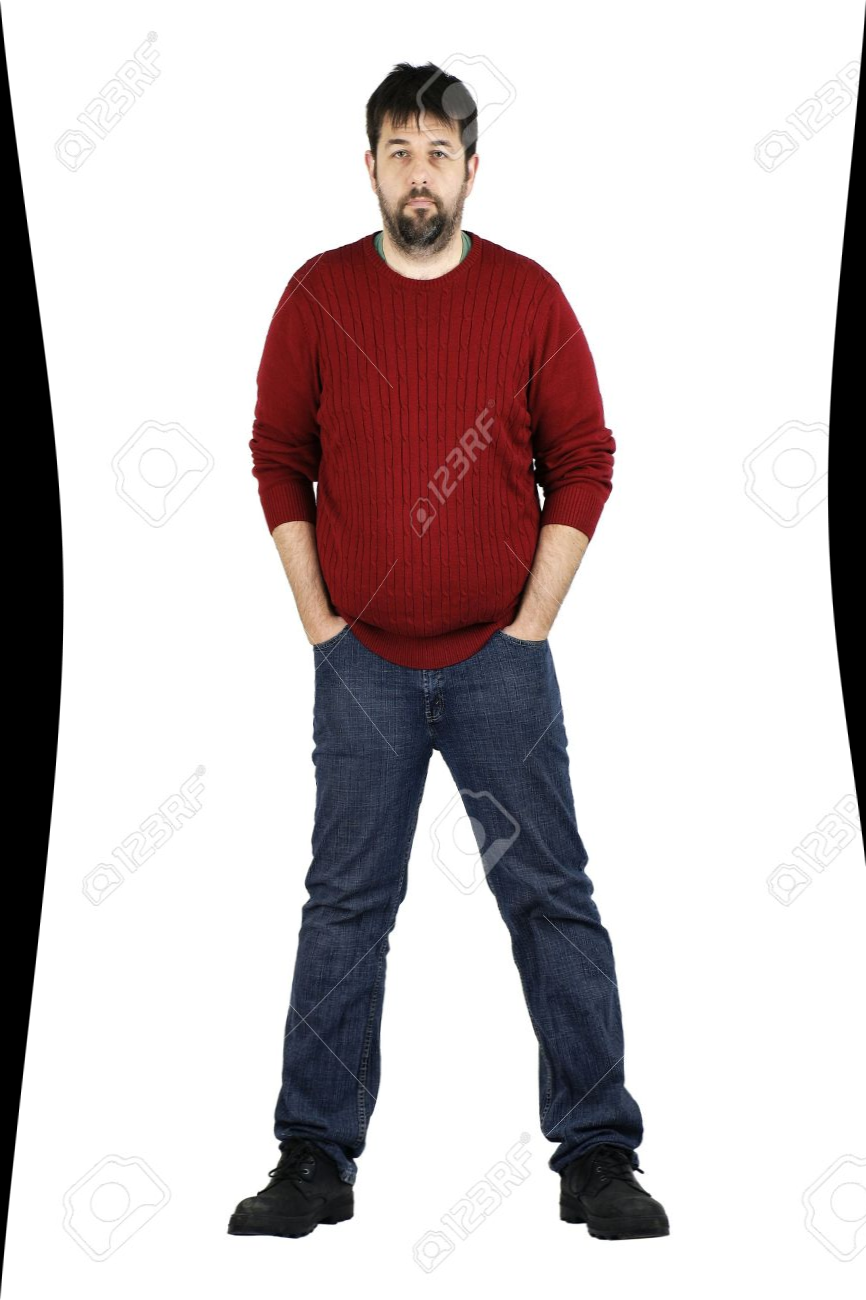
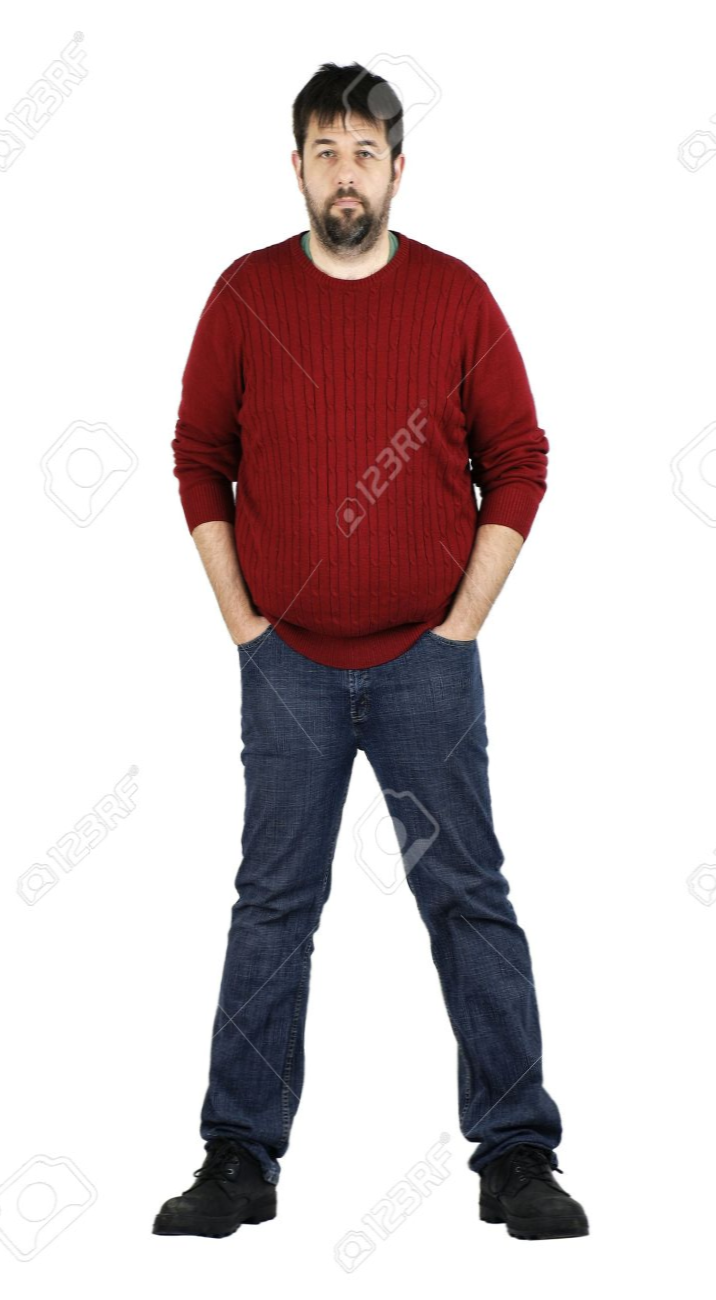
Body class makes warping for each part succesfully

diff --git a/thin-plate-spline/Body.py b/thin-plate-spline/Body.py
@@ -4,27 +4,28 @@ import os
 from torsoFront import torsoFront
 from Arm import Arm
 from upperLeg import upperLeg
+from PIL import Image
 
-body_parts = {
+# body_parts = {
     
-    'nose': {'x': 140.37497220298118, 'y': 55.910094292609244},
-    'leftEye': {'x': 147.79016284794773, 'y': 48.112344106038414},
-    'rightEye': {'x' : 127.25704479956813, 'y': 47.50153932990609 },
-    'leftEar': {'x' : 165.67790807679643, 'y': 57.405897827703},
-    'rightEar': {'x' : 114.28676995565726, 'y': 57.06981493396201},
-    'leftShoulder': {'x' : 192.1682789529017, 'y': 120.77464233999288},
-    'rightShoulder': {'x' : 94.3108498920766, 'y': 121.4811002570631},
-    'leftElbow': {'x' : 201.93303669145868, 'y': 196.94535177443927},
-    'rightElbow': {'x' : 83.03741319050161, 'y': 191.2138579721416},
-    'leftWrist': {'x' : 205.09550254289496, 'y': 267.17328204078115},
-    'rightWrist': {'x' : 77.92971506044847, 'y': 254.22849078492806},
-    'leftHip': {'x' : 167.87436809096226, 'y': 261.15734365134887},
-    'rightHip': {'x' : 120.21855589400892, 'y': 249.63132546672892},
-    'leftKnee': {'x' : 170.73546759287518, 'y': 381.0585201633719},
-    'rightKnee': {'x' : 105.185312951258, 'y': 376.1818199122782},
-    'leftAnkle': {'x' : 168.36852695960408, 'y': 491.7963871999538},
-    'rightAnkle': {'x' : 101.11777239714483, 'y': 488.409336907523}
-}
+#     'nose': {'x': 140.37497220298118, 'y': 55.910094292609244},
+#     'leftEye': {'x': 147.79016284794773, 'y': 48.112344106038414},
+#     'rightEye': {'x' : 127.25704479956813, 'y': 47.50153932990609 },
+#     'leftEar': {'x' : 165.67790807679643, 'y': 57.405897827703},
+#     'rightEar': {'x' : 114.28676995565726, 'y': 57.06981493396201},
+#     'leftShoulder': {'x' : 192.1682789529017, 'y': 120.77464233999288},
+#     'rightShoulder': {'x' : 94.3108498920766, 'y': 121.4811002570631},
+#     'leftElbow': {'x' : 201.93303669145868, 'y': 196.94535177443927},
+#     'rightElbow': {'x' : 83.03741319050161, 'y': 191.2138579721416},
+#     'leftWrist': {'x' : 205.09550254289496, 'y': 267.17328204078115},
+#     'rightWrist': {'x' : 77.92971506044847, 'y': 254.22849078492806},
+#     'leftHip': {'x' : 167.87436809096226, 'y': 261.15734365134887},
+#     'rightHip': {'x' : 120.21855589400892, 'y': 249.63132546672892},
+#     'leftKnee': {'x' : 170.73546759287518, 'y': 381.0585201633719},
+#     'rightKnee': {'x' : 105.185312951258, 'y': 376.1818199122782},
+#     'leftAnkle': {'x' : 168.36852695960408, 'y': 491.7963871999538},
+#     'rightAnkle': {'x' : 101.11777239714483, 'y': 488.409336907523}
+# }
 
 
 body_parts = {
@@ -51,7 +52,7 @@ im = cv2.imread('samples//sample5.jpg')
 if im is None:
     print("Error loading image. Check the file path.")
     exit(1)
-
+CROP_AMOUNT = 75
 class Body:
 
     def __init__(self, body_parts_, img):
@@ -61,13 +62,14 @@ class Body:
         
         self.steps = []
         self.step_counter = 0
+        self.steps.append(self.curr_im)
         
-        self.body_parts = body_parts_
-        self.torso = torsoFront(img, self.body_parts, 5, 5, 5, 5)
-        self.leftArm = Arm(img, self.body_parts, 5)
-        self.rightArm = Arm(img, self.body_parts, 5)
-        self.leftLeg = upperLeg(im, self.body_parts, 10)
-        self.rightLeg = upperLeg(im, self.body_parts, 10)
+        self.body_parts = body_parts_ 
+        self.torso = torsoFront(img, self.body_parts, 5, 5, 3, 3) # waist, belly, bust 
+        self.leftArm = Arm(img, self.body_parts, 2)
+        self.rightArm = Arm(img, self.body_parts, 2)
+        self.leftLeg = upperLeg(im, self.body_parts, 5)
+        self.rightLeg = upperLeg(im, self.body_parts, 5)
 
     def resetImage(self):
         """
@@ -94,7 +96,7 @@ class Body:
         return self.width
     
     def showDetectedPoints(self):
-        copy_im = self.im
+        copy_im = self.curr_im.copy()
         for part, coords in body_parts.items():
             x = int(coords['x'])
             y = int(coords['y'])
@@ -103,8 +105,7 @@ class Body:
         cv2.imshow('Image with Keypoints', copy_im)
         cv2.waitKey(0)
         
-        #cv2.imwrite('s.png',copy_im)
-        #cv2.destroyAllWindows()
+
     
     def showWarpingPoints(self, part_body):
         
@@ -145,56 +146,96 @@ class Body:
     
     def warp(self, body_part):
     
+        im = self.steps[self.step_counter]
+        
         if(body_part == "belly"):
-            self.curr_im = self.torso.performHorizontalWarping('belly')
+            self.curr_im = self.torso.performHorizontalWarping('belly', im)
 
         if(body_part == "waist"):
-            self.curr_im = self.torso.performHorizontalWarping('waist')
+            self.curr_im = self.torso.performHorizontalWarping('waist', im)
             
         if(body_part == "bust"):
-            self.curr_im = self.torso.performHorizontalWarping('bust')
+            self.curr_im = self.torso.performHorizontalWarping('bust', im)
         
-        # if(body_part == 'leftArm'):
-        #     im = self.leftArm.showLeftArmPoints()
-        #     cv2.imshow('Left Arm Warping Points',im)
-        #     cv2.waitKey(0)
+        if(body_part == 'leftArm'):
+            self.curr_im = self.leftArm.performWarpingLeftArm(im)
         
-        # if(body_part == 'rightArm'):
-        #     im = self.leftArm.showRightArmPoints()
-        #     cv2.imshow('Right Arm Warping Points',im)
-        #     cv2.waitKey(0)
-        
-        # if(body_part == 'arms'):
-        #     im = self.leftArm.showAllArmPoints()
-        #     cv2.imshow('Arms All Warping Points',im)
-        #     cv2.waitKey(0)
+        if(body_part == 'rightArm'):
+            self.curr_im = self.rightArm.performWarpingRightArm(im)
          
-        # if(body_part == 'leftLeg'):
-        #     im = self.leftLeg.showLeftLegPoints()
-        #     cv2.imshow('Left Leg Warping Points',im)
-        #     cv2.waitKey(0)
+        if(body_part == 'leftLeg'):
+            self.curr_im = self.leftLeg.performWarpingLefttLeg(im)
+                    
+        if(body_part == 'rightLeg'):
+            self.curr_im = self.rightLeg.performWarpingRightLeg(im)
         
-        # if(body_part == 'rightLeg'):
-        #     im = self.rightLeg.showRightLegPoints()
-        #     cv2.imshow('Right Leg Warping Points',im)
-        #     cv2.waitKey(0)
         
-        # if(body_part == 'legs'):
-        #     im = self.leftLeg.showAllLegPoints()
-        #     cv2.imshow('Leg Warping Points',im)
-        #     cv2.waitKey(0)        
-        
-        self.steps.push(self.curr_im)
+        im = self.curr_im.copy()
+        self.steps.append(im)
         self.step_counter+=1
+        
+    def show(self, step = 0):
+        if(step == 0):
+            im = self.steps[self.step_counter]
+            cv2.imshow("Body", im)
+            cv2.waitKey(0)
+        else:
+            counter = self.step_counter - step
+            if(counter > 0):
+                im = self.steps[counter]
+                cv2.imshow("Body", im)
+                cv2.waitKey(0)
+    def save(self, step = 0, cropImage = False):
+        if(step == 0):
+            im = self.steps[self.step_counter]
+            if(cropImage):
+                self.crop(im)
+            else:
+                cv2.imwrite('edited.png',im)
 
+    def crop(self,im_):
+        crop_amount = 50  # Adjust as needed
+        im = im_
+        
+        image_rgb = cv2.cvtColor(im, cv2.COLOR_BGR2RGB)
+        pil_image = Image.fromarray(image_rgb)
+
+        # # Calculate the new bounding box
+        crop_amount = CROP_AMOUNT  
+
+        left = crop_amount
+        top = 0
+        right = pil_image.width - crop_amount
+        bottom = pil_image.height
+
+        cropped_image = pil_image.crop((left, top, right, bottom))
+
+        cropped_image_path = "edited_png.png"
+        cropped_image.save(cropped_image_path, format='PNG')
+        
+        #cropped_image.show()
+        
+       
 if __name__ == "__main__":
     body = Body(body_parts, im)
     
-    # body.showDetectedPoints()
-    # body.showWarpingPoints('torso')
+    #body.showDetectedPoints()
+    #body.showWarpingPoints('leftLeg')
+    #body.showWarpingPoints('rightLeg')
+
+    
+    body.warp('belly')
+    body.warp('waist')
+
+    #body.show()
+    # body.warp('rightArm')
+    # body.warp('leftArm')
+    # body.warp('leftLeg')
+    # body.warp('rightLeg')
     # body.showWarpingPoints('legs')
     # body.showWarpingPoints('leftLeg')
     # body.showWarpingPoints('rightLeg')
+    body.save(cropImage=True)
 
 
     

diff --git a/thin-plate-spline/Arm.py b/thin-plate-spline/Arm.py
@@ -186,11 +186,13 @@ class Arm:
         self.l2 = Point(lRs2x, lRs2y, lRs2x_, lRs2y_, self.epsilon_arm)
         self.l3 = Point(lRs3x, lRs3y, lRs3x_, lRs3y_, self.epsilon_arm)
         
-    def performWarpingLeftArm(self):
+    def performWarpingLeftArm(self, im):
         
         """
             Performs TPS on left arm
         """
+        self.im_ = im                
+
         l1x, l1y, l1x_, l1y_ = self.l1.getSourcePoints()
         d1x, d1y, d1x_, d1y_ = self.l1.getDestinationPoints()
         
@@ -217,13 +219,16 @@ class Arm:
         new_im = tps.warpPoints(self.im_, source_points, destination_points)  
         self.im_ = new_im                
 
+        return self.im_
     
-    def performWarpingRightArm(self):
+    def performWarpingRightArm(self, im):
         """
             
             Performs TPS on right arm
         
         """        
+        self.im_ = im                
+
         s1x, s1y, s1x_, s1y_ = self.r1.getSourcePoints()
         d1x, d1y, d1x_, d1y_ = self.r1.getDestinationPoints()
         
@@ -249,8 +254,9 @@ class Arm:
         
         new_im = tps.warpPoints(self.im_, source_points, destination_points)
         
-        self.im_ = new_im                
-
+        self.im_ = new_im
+                        
+        return self.im_
 
     def setMiddlePointRightArm(self):
         

diff --git a/thin-plate-spline/upperLeg.py b/thin-plate-spline/upperLeg.py
@@ -168,12 +168,13 @@ class upperLeg:
         self.l3 = Point(lLs3x, lLs3y, lLs3x_, lLs3y_, self.epsilon_leg)
         
         
-    def performWarpingRightLeg(self):
+    def performWarpingRightLeg(self, im):
         """
             
             Performs TPS on right leg
         
         """        
+        self.im_ = im
         s1x, s1y, s1x_, s1y_ = self.r1.getSourcePoints()
         d1x, d1y, d1x_, d1y_ = self.r1.getDestinationPoints()
         
@@ -208,16 +209,19 @@ class upperLeg:
         self.r1.updateDestinationPoints()
         self.r2.updateDestinationPoints()
         self.r3.updateDestinationPoints()
-        cv2.imwrite('edited2.png',  self.im_)
+        # cv2.imwrite('edited2.png',  self.im_)
+        
+        return self.im_
 
     
-    def performWarpingLefttLeg(self):
+    def performWarpingLefttLeg(self, im):
         
         """
             
             Performs TPS on left leg
         
         """
+        self.im_ = im
 
         l1x, l1y, l1x_, l1y_ = self.l1.getSourcePoints()
         d1x, d1y, d1x_, d1y_ = self.l1.getDestinationPoints()
@@ -253,6 +257,8 @@ class upperLeg:
         self.l1.updateDestinationPoints()
         self.l2.updateDestinationPoints()
         self.l3.updateDestinationPoints()
+
+        return self.im_
 
     def showRightLegPoints(self):
         """
